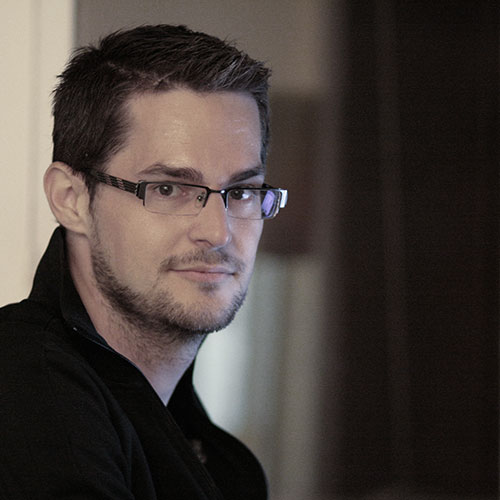
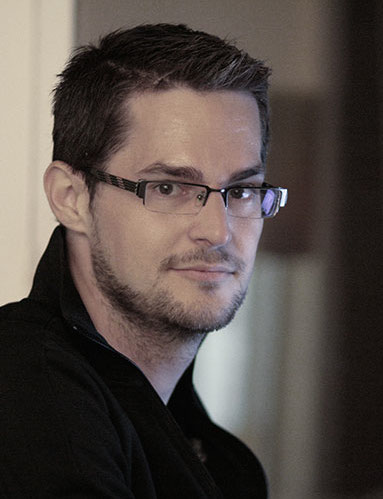
updates speakers, layout, agenda

diff --git a/index.html b/index.html
@@ -1,37 +1,43 @@
 <!DOCTYPE html>
 <html lang="en">
-  <head>
-    <meta charset="UTF-8">
-    <meta name="viewport" content="width=device-width, initial-scale=1">
-    <title>MobileJS by BarcelonaJS</title>
 
-    <!-- Bootstrap core CSS -->
-    <link rel="stylesheet" href="assets/css/bootstrap.min.css">
+<head>
+  <meta charset="UTF-8">
+  <meta name="viewport" content="width=device-width, initial-scale=1">
+  <title>MobileJS by BarcelonaJS</title>
 
-    <!-- Custom styles for this template -->
-    <link href="assets/css/theme.css" rel="stylesheet">
+  <!-- Bootstrap core CSS -->
+  <link rel="stylesheet" href="assets/css/bootstrap.min.css">
 
-    <!-- Webfonts -->
-    <script type="text/javascript" src="//use.typekit.net/mqp5ibc.js"></script>
-    <script type="text/javascript">try{Typekit.load();}catch(e){}</script>
-    <link href="//netdna.bootstrapcdn.com/font-awesome/4.0.3/css/font-awesome.css" rel="stylesheet">
+  <!-- Custom styles for this template -->
+  <link href="assets/css/theme.css" rel="stylesheet">
 
-    <!-- HTML5 Shim and Respond.js IE8 support of HTML5 elements and media queries -->
-    <!-- WARNING: Respond.js doesn't work if you view the page via file:// -->
-    <!--[if lt IE 9]>
+  <!-- Webfonts -->
+  <script type="text/javascript" src="//use.typekit.net/mqp5ibc.js"></script>
+  <script type="text/javascript">
+    try {
+      Typekit.load();
+    } catch (e) {}
+  </script>
+  <link href="//netdna.bootstrapcdn.com/font-awesome/4.0.3/css/font-awesome.css" rel="stylesheet">
+
+  <!-- HTML5 Shim and Respond.js IE8 support of HTML5 elements and media queries -->
+  <!-- WARNING: Respond.js doesn't work if you view the page via file:// -->
+  <!--[if lt IE 9]>
       <script src="https://oss.maxcdn.com/libs/html5shiv/3.7.0/html5shiv.js"></script>
       <script src="https://oss.maxcdn.com/libs/respond.js/1.4.2/respond.min.js"></script>
     <![endif]-->
 
-    <link rel="apple-touch-icon-precomposed" sizes="144x144" href="assets/ico/apple-touch-icon-144-precomposed.png">
-    <link rel="shortcut icon" href="assets/ico/favicon.png">
-    <link rel="shortcut icon" href="favicon.ico">
-  </head>
-  <body>
+  <link rel="apple-touch-icon-precomposed" sizes="144x144" href="assets/ico/apple-touch-icon-144-precomposed.png">
+  <link rel="shortcut icon" href="assets/ico/favicon.png">
+  <link rel="shortcut icon" href="favicon.ico">
+</head>
 
-    <div class="container-fluid" role="main">
+<body>
 
-      <div class="row">
+  <div class="container-fluid" role="main">
+
+    <div class="row">
   <section id="intro" data-speed="4" data-type="background">
     <h1 class="col-sm-offset-1 title">MobileJS</h1>
     <h2 class="col-sm-offset-1 subtitle">by BarcelonaJS <a href="http://barcelonajs.org"><img class="header-logo" src="/assets/images/logo.png" alt="logo" /></a></h2>
@@ -52,6 +58,8 @@
       <h3 class="col-sm-offset-1">Agenda</h3>
       <ul class="agenda-list list-group">
         <li class="list-group-item">UX mobile patterns in Titanium, Javier Rayón</li>
+        <li class="list-group-item">Connecting your Arduino through mobile networks, a practical demo, Javier Zorzano</li>
+        <li class="list-group-item">Hybrid apps with Ionic, Sergio Gimeno</li>
       </ul>
     </div>
   </section>
@@ -59,47 +67,73 @@
   <section class="speakers row">
     <div class="col-xs-12">
       <h3 class="col-sm-offset-1">Speakers</h3>
-      
-      <div class="speaker col-xs-12 col-sm-4">
-        
-          <div class="speaker-portrait" style="background-image: url(/assets/images/jrayon.jpg);"></div>
-          <span class="speaker-name">Javier Rayón</span>
-          <a href="http://twitter.com/jrayon"><i class="fa fa-twitter"></i> jrayon</a>
-          <p>Freelance mobile developer using Appcelerator Titanium since 2010. Expert in Appcelerator technologies, including Titanium, Alloy, Appcelerator Cloud Services (ACS) and iOS modules development.</p>
-        
-      </div>
-      
-      <div class="speaker col-xs-12 col-sm-4">
-        
-          <div class="speaker-portrait" style="background-image: url(/assets/images/andrew.jpg);"></div>
-          <span class="speaker-name">Andrew Savory</span>
-          <a href="http://twitter.com/savs"><i class="fa fa-twitter"></i> savs</a>
-          <p>Andrew is a Senior Technical Product Marketing Manager for Mobile at Adobe. He provides a bridge between engineering and the wider world, ensuring everyone knows about the great new features and functionalities that are being built, and how best to use them. Prior to Adobe, Andrew spent several years working in a mobile consortium building mobile platforms, and also worked extensively in systems integration where he delivered a wide range of enterprise content management solutions. Andrew is also passionate about open source and is a member of the Apache Software Foundation.</p>
-        
-      </div>
-      
-      <div class="speaker col-xs-12 col-sm-4">
-        
-          <span class="fa-stack fa-5x">
-            <i class="fa fa-square-o fa-stack-2x"></i>
-            <i class="fa fa-question fa-stack-1x"></i>
-          </span>
-        
-      </div>
-      
     </div>
+    
+    <div class="speaker equal col-xs-12 col-sm-12 col-md-4">
+      <div class="speaker-portrait col-xs-6 col-sm-2" style="background-image: url(/assets/images/jrayon.jpg);"></div>
+      <div class="speaker-profile">
+        <span class="speaker-name">Javier Rayón</span>
+        <p>Freelance mobile developer using Appcelerator Titanium since 2010. Expert in Appcelerator technologies, including Titanium, Alloy, Appcelerator Cloud Services (ACS) and iOS modules development.</p>
+        <a href="http://twitter.com/jrayon"><i class="fa fa-twitter"></i> jrayon</a>
+      </div>
+    </div>
+    
+    <div class="speaker equal col-xs-12 col-sm-12 col-md-4">
+      <div class="speaker-portrait col-xs-6 col-sm-2" style="background-image: url(/assets/images/andrew.jpg);"></div>
+      <div class="speaker-profile">
+        <span class="speaker-name">Andrew Savory</span>
+        <p>Andrew is a Senior Technical Product Marketing Manager for Mobile at Adobe. He provides a bridge between engineering and the wider world. Prior to Adobe, Andrew spent several years working in a mobile consortium building mobile platforms. He is passionate about open source and is a member of the Apache Software Foundation.</p>
+        <a href="http://twitter.com/savs"><i class="fa fa-twitter"></i> savs</a>
+      </div>
+    </div>
+    
+    <div class="speaker equal col-xs-12 col-sm-12 col-md-4">
+      <div class="speaker-portrait col-xs-6 col-sm-2" style="background-image: url(/assets/images/francisco.jpg);"></div>
+      <div class="speaker-profile">
+        <span class="speaker-name">Francisco Jordano</span>
+        <p>Francisco is crazy about web technologies and the web. With several years of experience in mobile web, has been expending the last 2 years working in Firefox OS and the Mozilla family, helping with the core applications and operating system. Passionate about the web and sharing knowledge, loves to teach and learn every single day.</p>
+        <a href="http://twitter.com/mepartoconmigo"><i class="fa fa-twitter"></i> mepartoconmigo</a>
+      </div>
+    </div>
+    
+    <div class="speaker equal col-xs-12 col-sm-12 col-md-4">
+      <div class="speaker-portrait col-xs-6 col-sm-2" style="background-image: url(/assets/images/javier.jpg);"></div>
+      <div class="speaker-profile">
+        <span class="speaker-name">Javier Zorzano</span>
+        <p>Javier Zorzano is a telecommunications engineer, leading the Telefonica Physical Internet Lab. This lab, working between Madrid and Barcelona, aims to democratize the Internet of Things, opening it to developers, entrepeneurs, companies and even general public.</p>
+        <a href="http://twitter.com/zorzano"><i class="fa fa-twitter"></i> zorzano</a>
+      </div>
+    </div>
+    
+    <div class="speaker equal col-xs-12 col-sm-12 col-md-4">
+      <div class="speaker-portrait col-xs-6 col-sm-2" style="background-image: url(/assets/images/sergio.jpg);"></div>
+      <div class="speaker-profile">
+        <span class="speaker-name">Sergio Gimeno</span>
+        <p>Sergio a freelance web/mobile developer at Agilogy and one of the AngularJS-Barcelona group organizers. He&#x27;s been using PhoneGap/Cordova since 2011 and playing around with many HTML5 single-page and mobile frameworks such as jQuery Mobile, Sencha Touch, Backbone or AngularJS.</p>
+        <a href="http://twitter.com/_sgimeno"><i class="fa fa-twitter"></i> _sgimeno</a>
+      </div>
+    </div>
+    
   </section>
 
   <section class="sponsors row">
     <div class="col-xs-12">
       <h3 class="col-sm-offset-1">Sponsors</h3>
       
-      <div class="sponsor col-xs-6 col-sm-2">
+      <div class="sponsor col-xs-12 col-sm-4 text-center">
+        <a href="http://mozilla.org"><img class="sponsor-logo" src="/assets/images/mozilla.png" alt=Mozilla /></a>
+      </div>
+      
+      <div class="sponsor col-xs-12 col-sm-4 text-center">
         <a href="http://phonegap.com"><img class="sponsor-logo" src="/assets/images/phonegap-logo.jpg" alt=PhoneGap /></a>
       </div>
       
-      <div class="sponsor col-xs-6 col-sm-2">
+      <div class="sponsor col-xs-12 col-sm-4 text-center">
         <a href="http://www.appcelerator.com"><img class="sponsor-logo" src="/assets/images/appc-logo-stacked-light.png" alt=Appcelerator /></a>
+      </div>
+      
+      <div class="sponsor col-xs-12 col-sm-4 text-center">
+        <a href="http://www.telefonica.es"><img class="sponsor-logo" src="/assets/images/telefonica.jpg" alt=Telefonica /></a>
       </div>
       
       <div class="col-xs-12"><p>We're currently looking for sponsors. Interested? <a href="mailto:mobile@barcelonajs.org">Get in touch</a>.</p></div>
@@ -115,66 +149,79 @@
   <section class="team row">
     <div class="col-xs-12">
       <h3 class="col-sm-offset-1">Team</h3>
-      
-      <div class="member col-xs-12 col-sm-4">
-        
-          <div class="member-portrait" style="background-image: url(/assets/images/patrick.jpg);"></div>
-          <span class="member-name">Patrick Heneise</span>
-          <p><a href="http://twitter.com/PatrickHeneise"><i class="fa fa-twitter"></i> PatrickHeneise</a></p>
-        
-      </div>
-      
-      <div class="member col-xs-12 col-sm-4">
-        
-          <div class="member-portrait" style="background-image: url(/assets/images/alina.jpg);"></div>
-          <span class="member-name">Alina Mierlus</span>
-          <p><a href="http://twitter.com/alina_mierlus"><i class="fa fa-twitter"></i> alina_mierlus</a></p>
-        
-      </div>
-      
     </div>
+    
+    <div class="member equal col-xs-12 col-sm-12 col-md-6">
+      <div class="member-portrait col-xs-6 col-sm-2" style="background-image: url(/assets/images/patrick.jpg);"></div>
+      <div class="member-profile">
+        <span class="member-name">Patrick Heneise</span>
+        <p>Patrick is Software Architect, engineering (mobile) solutions from server side services and APIs in node.js to html5 apps in JavaScript. He organises BarcelonaJS and the Couchbase Group Barcelona.</p>
+        <a href="http://twitter.com/PatrickHeneise"><i class="fa fa-twitter"></i> PatrickHeneise</a>
+      </div>
+    </div>
+    
+    <div class="member equal col-xs-12 col-sm-12 col-md-6">
+      <div class="member-portrait col-xs-6 col-sm-2" style="background-image: url(/assets/images/alina.jpg);"></div>
+      <div class="member-profile">
+        <span class="member-name">Alina Mierlus</span>
+        <p>Alina is a geek and web developer. She has been contributing to Mozilla since 2007 by helping the Romanian and Catalan teams to build a diverse community.</p>
+        <a href="http://twitter.com/alina_mierlus"><i class="fa fa-twitter"></i> alina_mierlus</a>
+      </div>
+    </div>
+    
   </section>
 </div>
 
 
-    </div>
+  </div>
 
-    <!-- jQuery (necessary for Bootstrap's JavaScript plugins) -->
-    <script type="text/javascript" src="//cdnjs.cloudflare.com/ajax/libs/jquery/2.1.0/jquery.min.js"></script>
-    <!-- Include all compiled plugins (below), or include individual files as needed -->
-    <script src="assets/js/bootstrap.min.js"></script>
-    <script>$(document).ready(function(){
-       // cache the window object
-       $window = $(window);
+  <!-- jQuery (necessary for Bootstrap's JavaScript plugins) -->
+  <script type="text/javascript" src="//cdnjs.cloudflare.com/ajax/libs/jquery/2.1.0/jquery.min.js"></script>
+  <!-- Include all compiled plugins (below), or include individual files as needed -->
+  <script src="assets/js/bootstrap.min.js"></script>
+  <script>
+    $(document).ready(function() {
+      // cache the window object
+      $window = $(window);
 
-       $('section[data-type="background"]').each(function(){
-         // declare the variable to affect the defined data-type
-         var $scroll = $(this);
+      $('section[data-type="background"]').each(function() {
+        var $scroll = $(this);
 
-          $(window).scroll(function() {
-            // HTML5 proves useful for helping with creating JS functions!
-            // also, negative value because we're scrolling upwards
-            var yPos = -($window.scrollTop() / $scroll.data('speed'));
+        $(window).scroll(function() {
+          // HTML5 proves useful for helping with creating JS functions!
+          // also, negative value because we're scrolling upwards
+          var yPos = -($window.scrollTop() / $scroll.data('speed'));
 
-            // background position
-            var coords = '50% '+ yPos + 'px';
+          // background position
+          var coords = '50% ' + yPos + 'px';
 
-            // move the background
-            $scroll.css({ backgroundPosition: coords });
-          }); // end window scroll
-       });  // end section function
+          // move the background
+          $scroll.css({
+            backgroundPosition: coords
+          });
+        }); // end window scroll
+      }); // end section function
     }); // close out script
 
     /* Create HTML5 element for IE */
-    document.createElement("section");</script>
-    <script>
-      (function(i,s,o,g,r,a,m){i['GoogleAnalyticsObject']=r;i[r]=i[r]||function(){
-      (i[r].q=i[r].q||[]).push(arguments)},i[r].l=1*new Date();a=s.createElement(o),
-      m=s.getElementsByTagName(o)[0];a.async=1;a.src=g;m.parentNode.insertBefore(a,m)
-      })(window,document,'script','//www.google-analytics.com/analytics.js','ga');
+    document.createElement("section");
+  </script>
+  <script>
+    (function(i, s, o, g, r, a, m) {
+      i['GoogleAnalyticsObject'] = r;
+      i[r] = i[r] || function() {
+        (i[r].q = i[r].q || []).push(arguments)
+      }, i[r].l = 1 * new Date();
+      a = s.createElement(o),
+      m = s.getElementsByTagName(o)[0];
+      a.async = 1;
+      a.src = g;
+      m.parentNode.insertBefore(a, m)
+    })(window, document, 'script', '//www.google-analytics.com/analytics.js', 'ga');
 
-      ga('create', 'UA-37507281-3', 'barcelonajs.org');
-      ga('send', 'pageview');
-    </script>
-  </body>
+    ga('create', 'UA-37507281-3', 'barcelonajs.org');
+    ga('send', 'pageview');
+  </script>
+</body>
+
 </html>

diff --git a/assets/css/theme.css b/assets/css/theme.css
@@ -58,9 +58,15 @@ h3 {
   margin-top: 50px;
 }
 
+.speaker, .member {
+  margin-bottom: 66px;
+  padding-left: 0;
+  padding-right: 0;
+}
+
 .speaker-portrait, .member-portrait {
-  width: 100%;
-  height: 200px;
+  min-width: 150px;
+  height: 400px;
   background-position: center center;
   background-repeat: no-repeat;
 }
@@ -74,10 +80,17 @@ h3 {
   color:white;
   display:block;
   font-weight:bold;
-  margin-bottom:10%;
-  position:relative;
+  margin-bottom:10px;
   width:100%;
   z-index:100
+}
+
+.speaker-profile, .member-profile {
+  padding: 10px;
+}
+
+.sponsor-logo {
+  max-width: 250px;
 }
 
 .mostimportant {
@@ -86,4 +99,9 @@ h3 {
   padding: 25px;
   color: white;
   background-color: rgba(255,0,0,0.5);;
+}
+
+div.equal {
+  display: -webkit-flex;
+  display: flex;
 }
